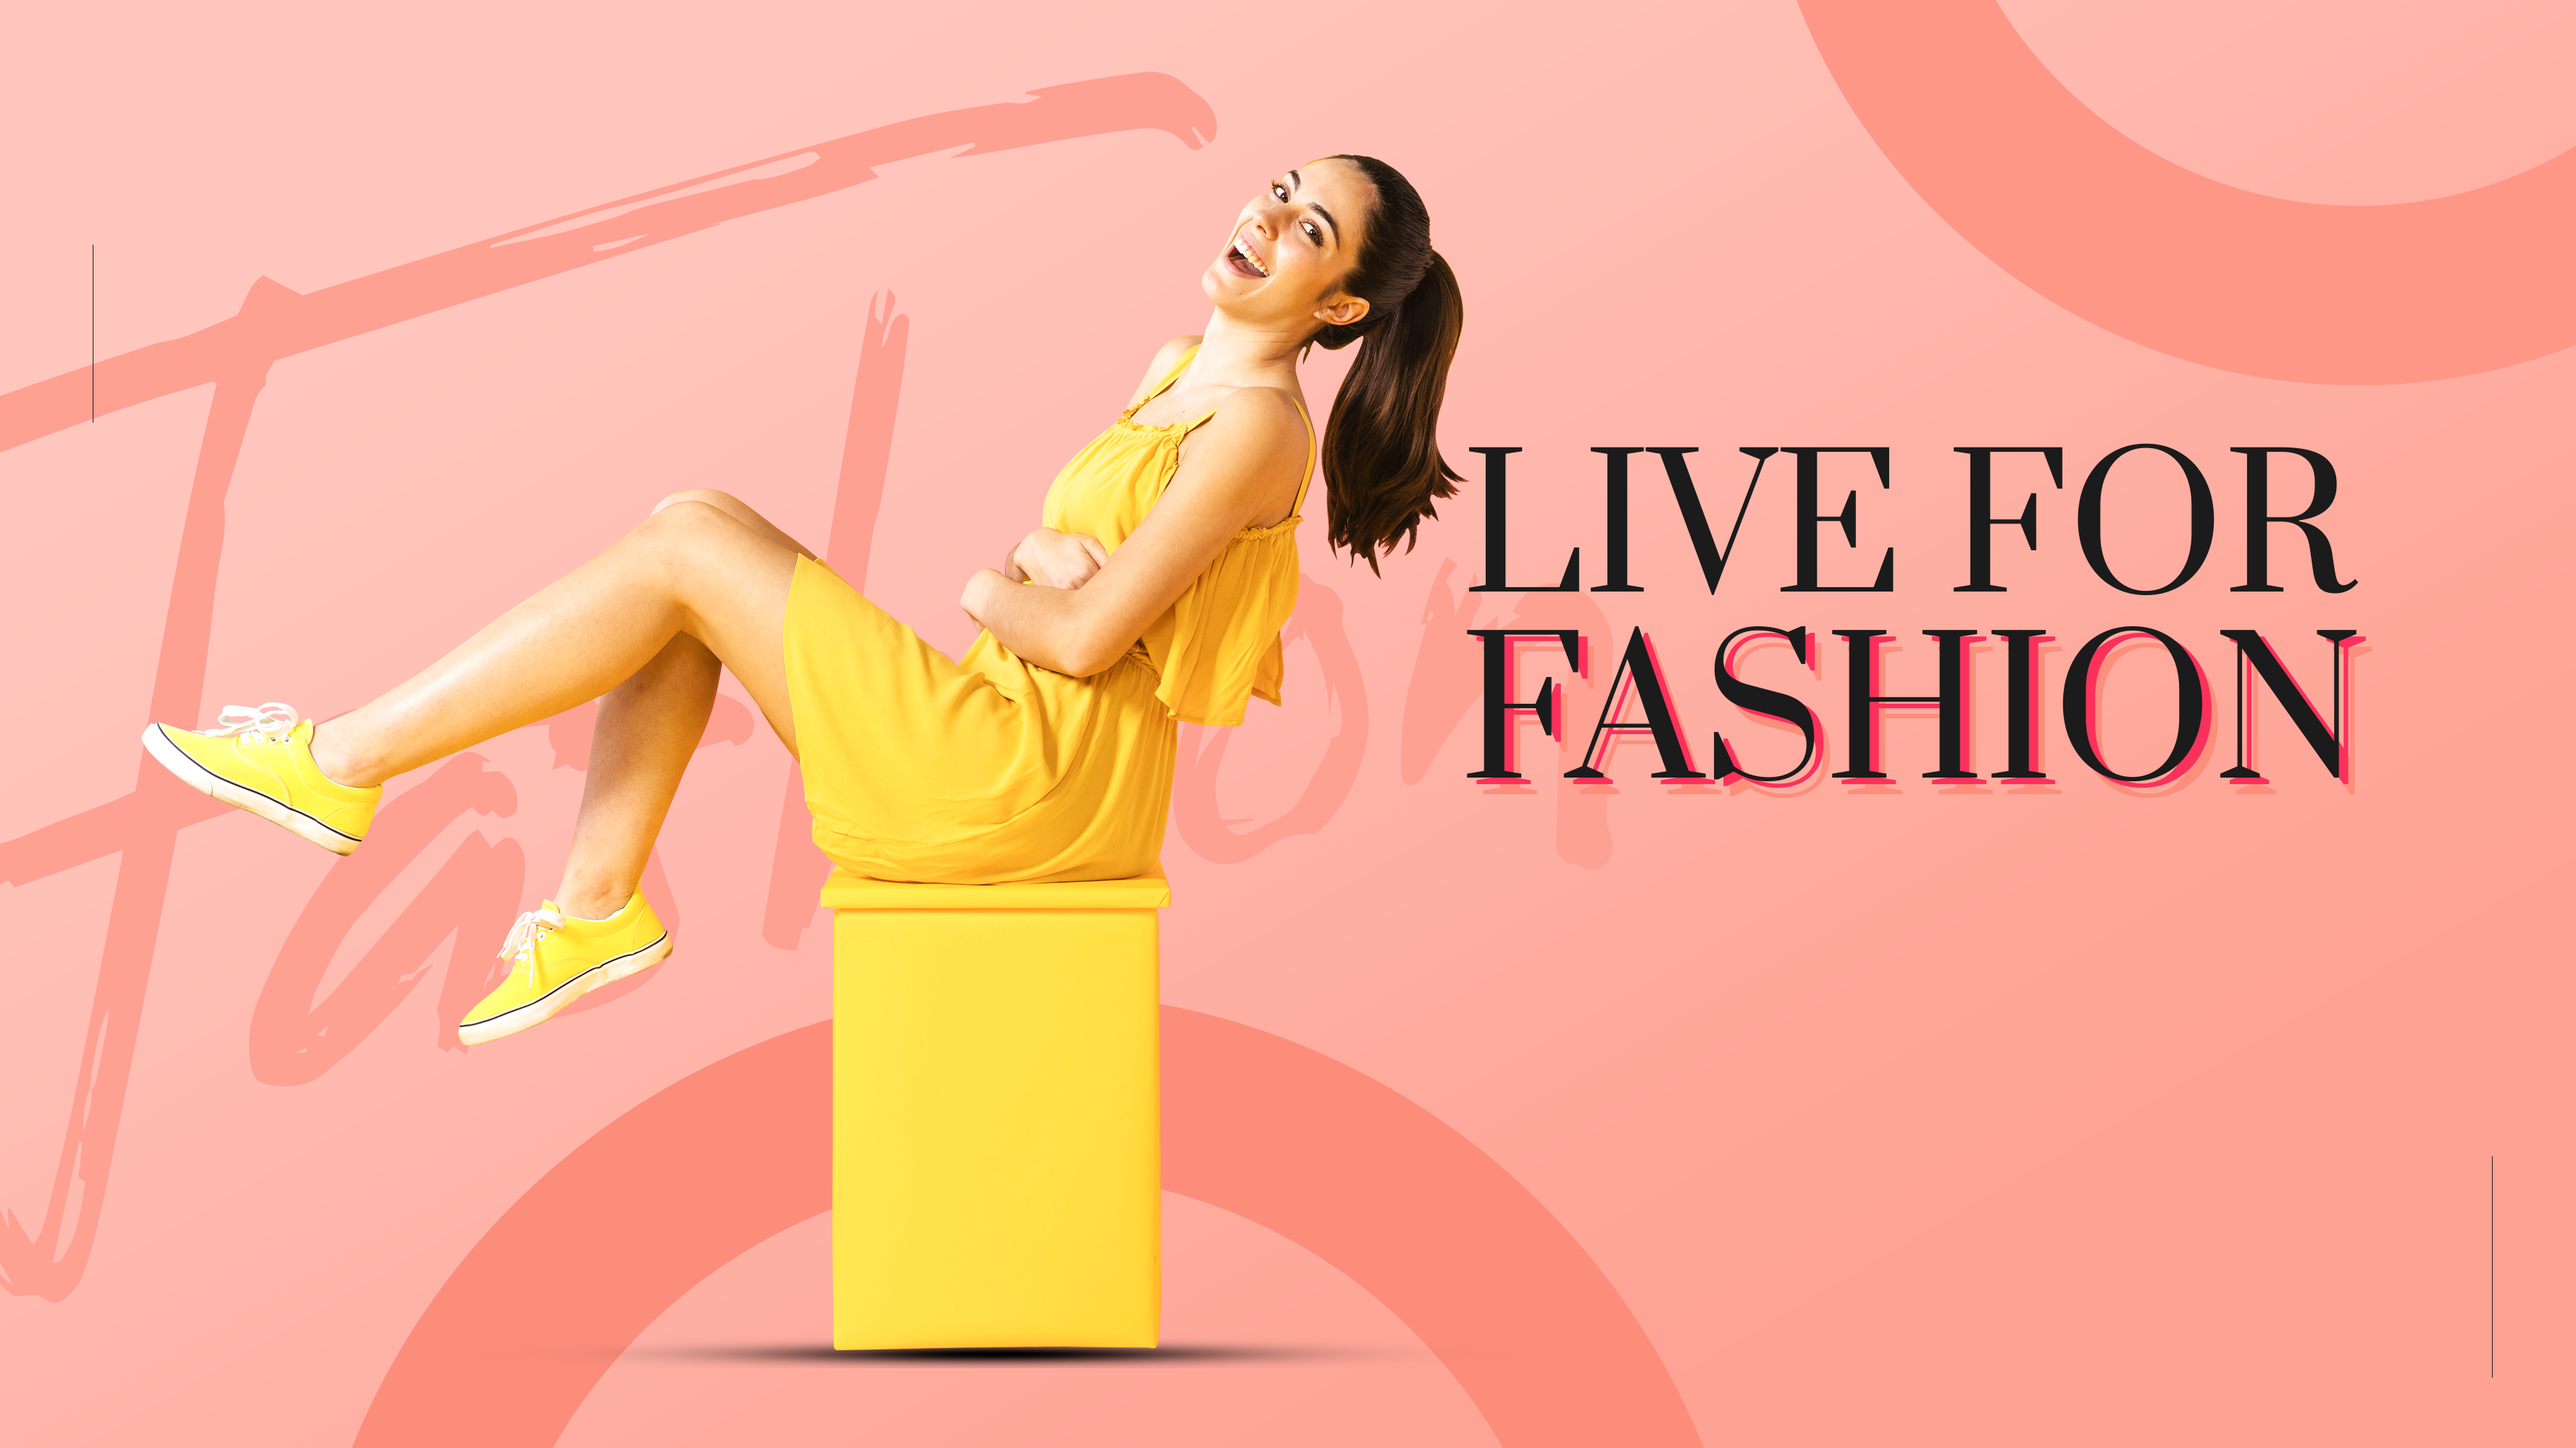
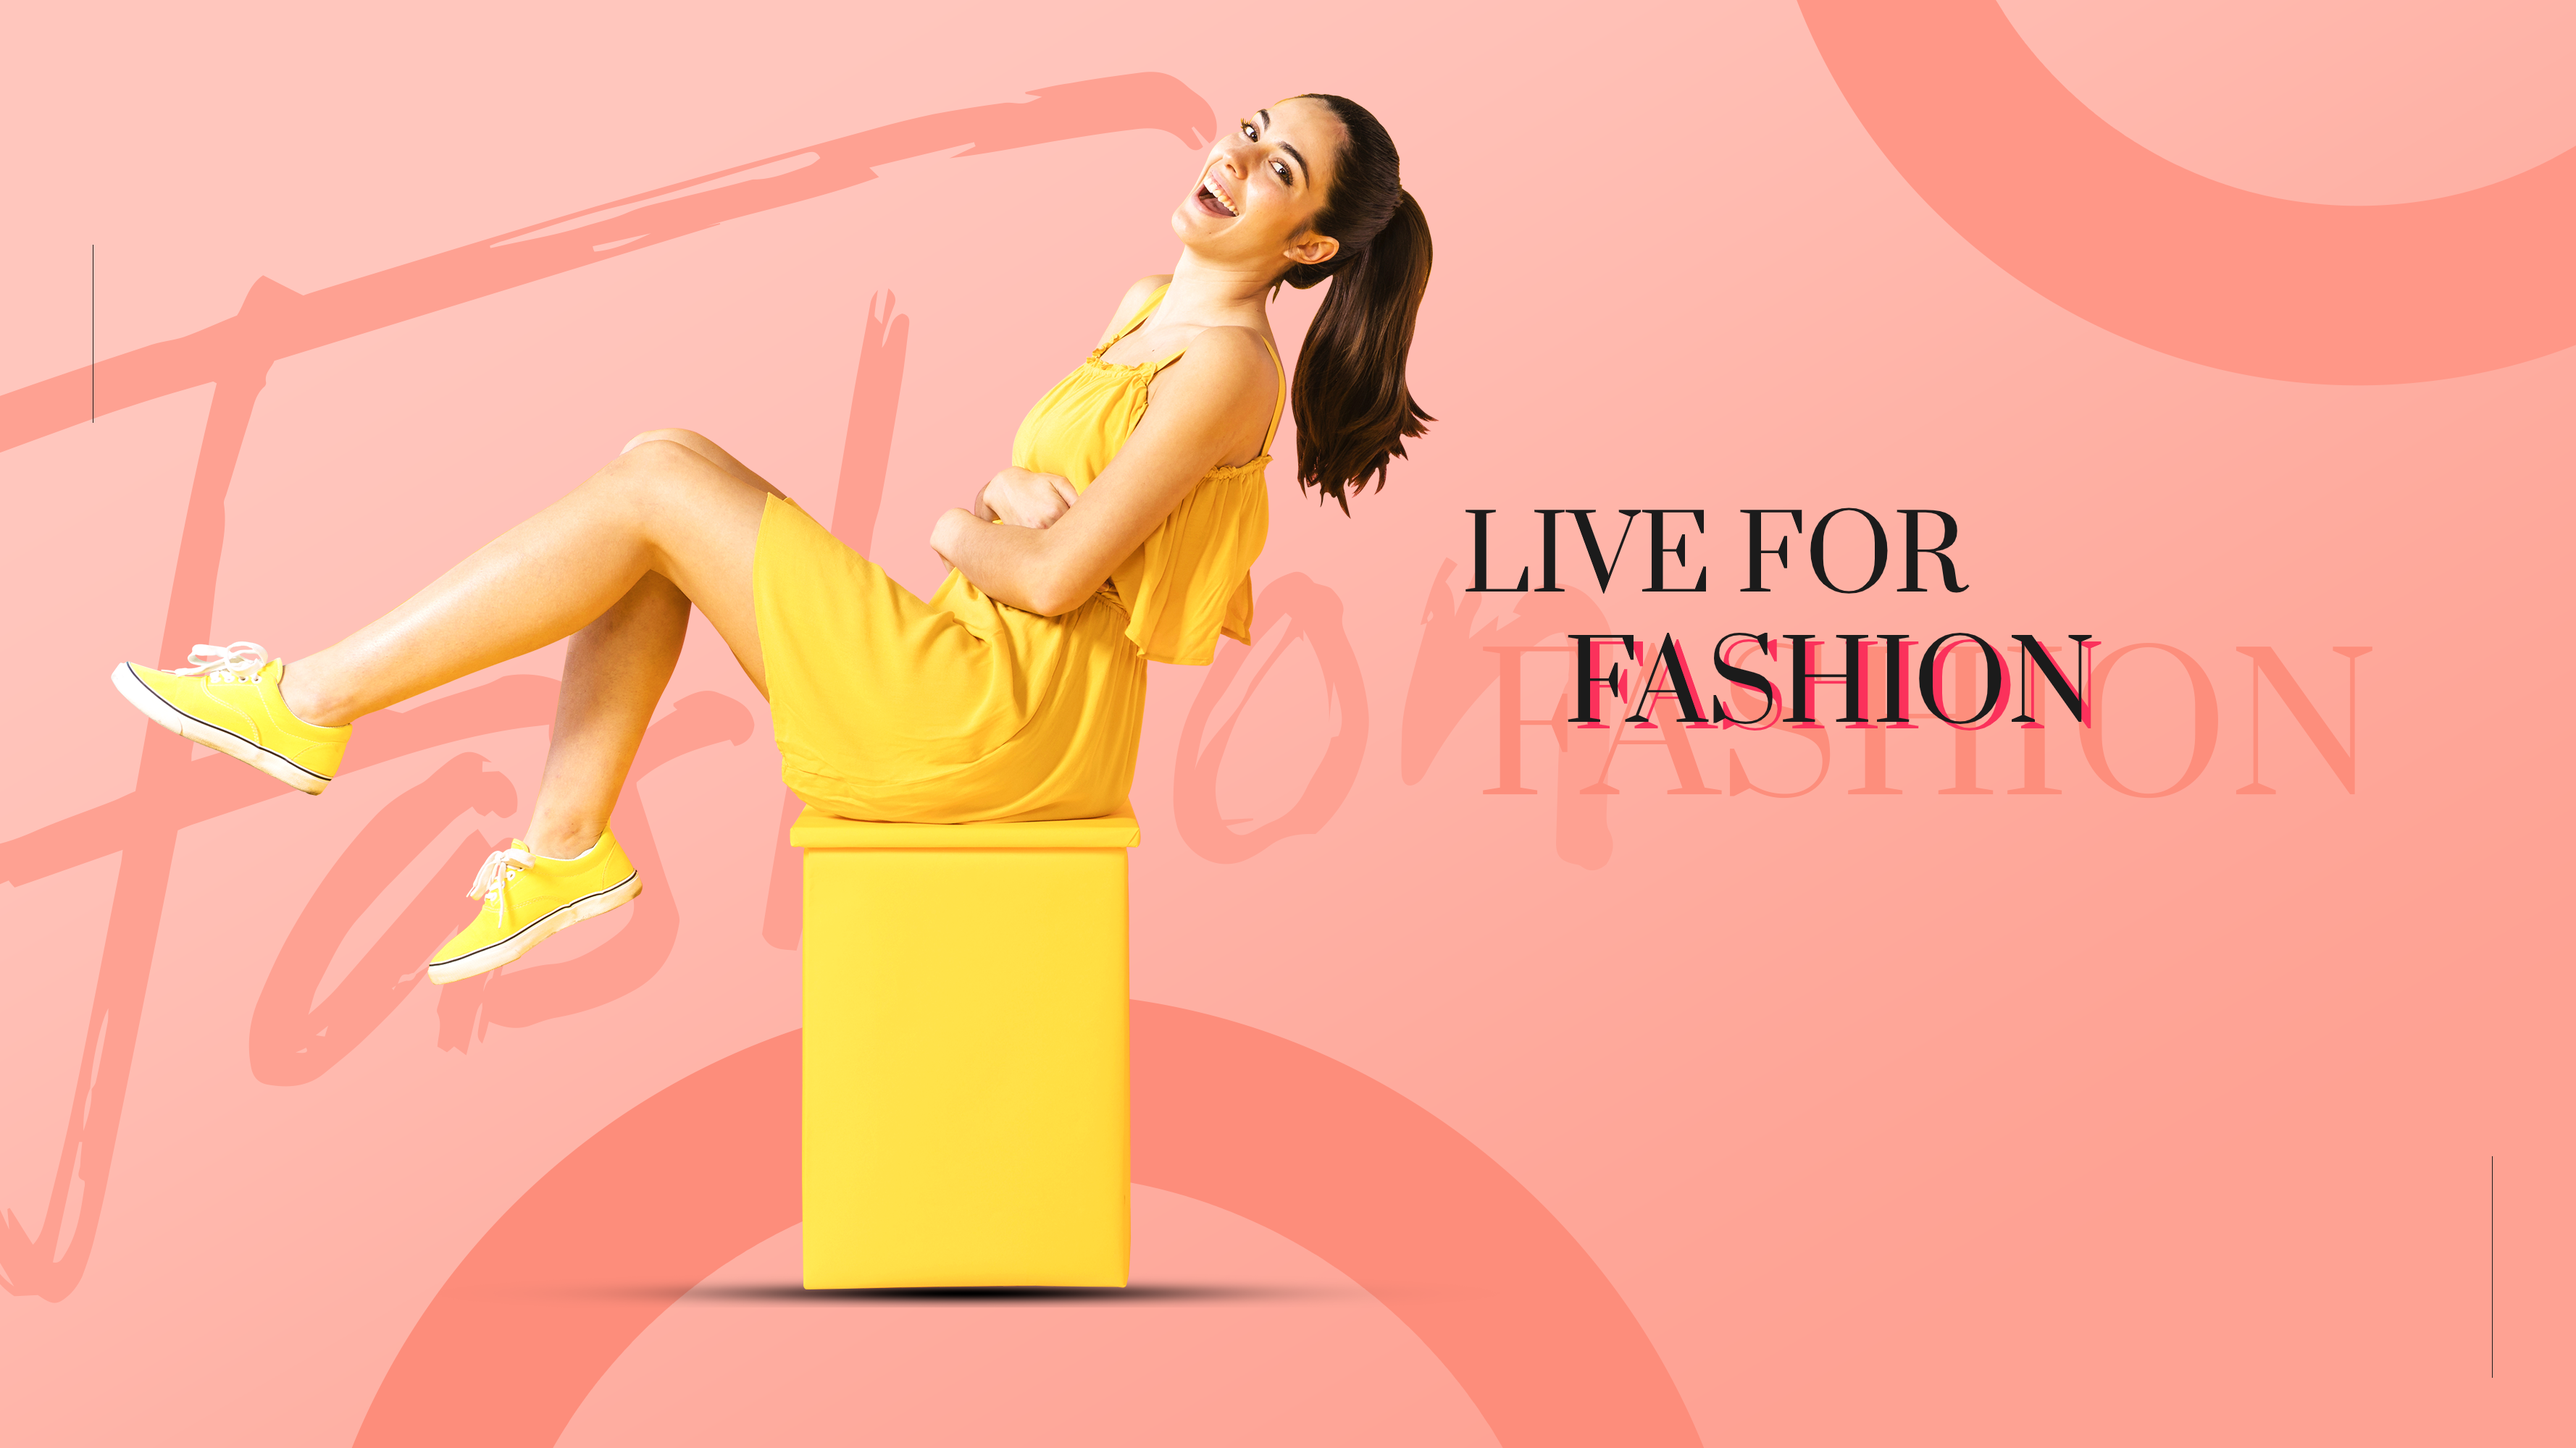
header changed 4

Changed region(s): [[0.0312, 0.062, 0.9364, 0.961]]

diff --git a/components/HomePage/home-header/HomeHeader.component.jsx b/components/HomePage/home-header/HomeHeader.component.jsx
@@ -40,7 +40,7 @@ const HomeHeader = (props) => {
     >
       <header className="header">
         <div className="header__container">
-          <div className="header--title">New collection</div>
+          {/* <div className="header--title">New collection</div>
           <div className="header--subtitle">
             Find the best <br />
             clothing for you.
@@ -52,12 +52,12 @@ const HomeHeader = (props) => {
             <a href="#" className="btn btn--white-simple">
               Read more
             </a>
-          </div>
+          </div> */}
         </div>
       </header>
       <header className="header">
         <div className="header__container">
-          <div className="header--title">New collection</div>
+          {/* <div className="header--title">New collection</div>
           <div className="header--subtitle">
             jasdfijiojafi <br />
             jadsfiojifasdj.
@@ -69,12 +69,12 @@ const HomeHeader = (props) => {
             <a href="#" className="btn btn--white">
               Read more
             </a>
-          </div>
+          </div> */}
         </div>
       </header>
       <header className="header">
         <div className="header__container">
-          <div className="header--title">New collection</div>
+          {/* <div className="header--title">New collection</div>
           <div className="header--subtitle">
             Find the best <br />
             clothing for you.
@@ -84,7 +84,7 @@ const HomeHeader = (props) => {
             <a href="#" className="btn btn--white-simple">
               Read more
             </a>
-          </div>
+          </div> */}
         </div>
       </header>
     </Carousel>

diff --git a/styles/style.css b/styles/style.css
@@ -3405,7 +3405,7 @@ body {
 
 @media only screen and (max-width: 1024px) {
   .header {
-    background-position: center;
+    background-position: right;
     height: 60vh; }
     .header__container {
       position: absolute;
